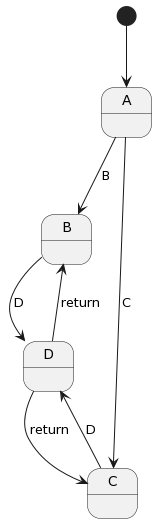
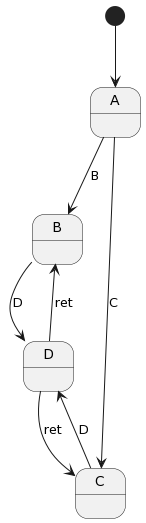
u

diff --git a/intermediate_frame/history.rst b/intermediate_frame/history.rst
@@ -65,9 +65,9 @@ in **$D** to determine which state to return to.
             |gotoD| -> "D" $D("C") ^
 
         $D [previous_state]
-            |return| 
-                previous_state == "B" ? -> $B ^ :>
-                previous_state == "D" ? -> $C ^ :| ^
+            |ret| 
+                previous_state == "B" ? -> "ret" $B ^ :>
+                previous_state == "D" ? -> "ret" $C ^ :| ^
 
     ##
 
